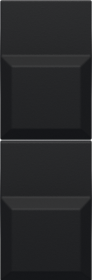
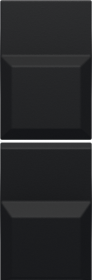
Remove switch in pole mix calculation (#188)
Do it with a LUT instead. Also the value setter for filter type in Xpander mode was wrong, use jmin instead.

Also update a few GUI assets

Changed region(s): [[0.0217, 0.6857, 0.9783, 0.7714], [0.0, 0.4857, 1.0, 0.5143]]

diff --git a/src/engine/Filter.h b/src/engine/Filter.h
@@ -29,6 +29,27 @@
 class Filter
 {
   private:
+    // clang-format off
+    constexpr static float poleMixFactors[15][5]
+    {
+        {0,  0,  0,  0,  1}, // LP4
+        {0,  0,  0,  1,  0}, // LP3
+        {0,  0,  1,  0,  0}, // LP2
+        {0,  1,  0,  0,  0}, // LP1
+        {1, -3,  3, -1,  0}, // HP3
+        {1, -2,  1,  0,  0}, // HP2
+        {1, -1,  0,  0,  0}, // HP1
+        {0,  0,  2, -4,  2}, // BP4
+        {0, -2,  2,  0,  0}, // BP2
+        {1, -2,  2,  0,  0}, // N2
+        {1, -3,  6, -4,  0}, // PH3
+        {0, -1,  2, -1,  0}, // HP2+LP1
+        {0, -1,  3, -3,  1}, // HP3+LP1
+        {0, -1,  2, -2,  0}, // N2+LP1
+        {0, -1,  3, -6,  4}, // PH3+LP1
+    };
+    // clang-format on
+
     float s1, s2, s3, s4;
     float R12, R24;
     float rcor12, rcorInv12;
@@ -180,57 +201,9 @@ class Filter
 
         if (xpander)
         {
-            switch (xpanderMode)
-            {
-            case 0: // LP4
-                out = y4;
-                break;
-            case 1: // LP3
-                out = y3;
-                break;
-            case 2: // LP2
-                out = y2;
-                break;
-            case 3: // LP1
-                out = y1;
-                break;
-            case 4: // HP3
-                out = y0 - (y1 * 3.f) + (y2 * 3.f) - y3;
-                break;
-            case 5: // HP2
-                out = y0 - (y1 * 2.f) + y2;
-                break;
-            case 6: // HP1
-                out = y0 - y1;
-                break;
-            case 7: // BP4
-                out = (y2 - (y3 * 2.f) + y4) * 2.f;
-                break;
-            case 8: // BP2
-                out = (-y1 + y2) * 2.f;
-                break;
-            case 9: // N2
-                out = y0 - (y1 * 2.f) + (y2 * 2.f);
-                break;
-            case 10: // PH3
-                out = y0 - (y1 * 3.f) + (y2 * 6.f) - (y3 * 4.f);
-                break;
-            case 11: // HP2+LP1
-                out = -y1 + (y2 * 2.f) - y3;
-                break;
-            case 12: // HP3+LP1
-                out = -y1 + (y2 * 3.f) - (y3 * 3.f) + y4;
-                break;
-            case 13: // N2+LP1
-                out = -y1 + (y2 * 2.f) - (y3 * 2.f);
-                break;
-            case 14: // PH3+LP1
-                out = -y1 + (y2 * 3.f) - (y3 * 6.f) + (y4 * 4.f);
-                break;
-            default:
-                out = 0.f;
-                break;
-            }
+            out = (y0 * poleMixFactors[xpanderMode][0]) + (y1 * poleMixFactors[xpanderMode][1]) +
+                  (y2 * poleMixFactors[xpanderMode][2]) + (y3 * poleMixFactors[xpanderMode][3]) +
+                  (y4 * poleMixFactors[xpanderMode][4]);
         }
         else
         {

diff --git a/src/engine/SynthEngine.h b/src/engine/SynthEngine.h
@@ -183,7 +183,7 @@ class SynthEngine
     }
     void processXpanderMode(float val)
     {
-        const auto v = juce::roundToInt((val * 14.f) + 1.f);
+        const auto v = juce::jmin(val * 15.f, 14.f);
         ForEachVoice(flt.xpanderMode = v);
     }
     void processUnison(float val) { synth.uni = val > 0.5f; }
